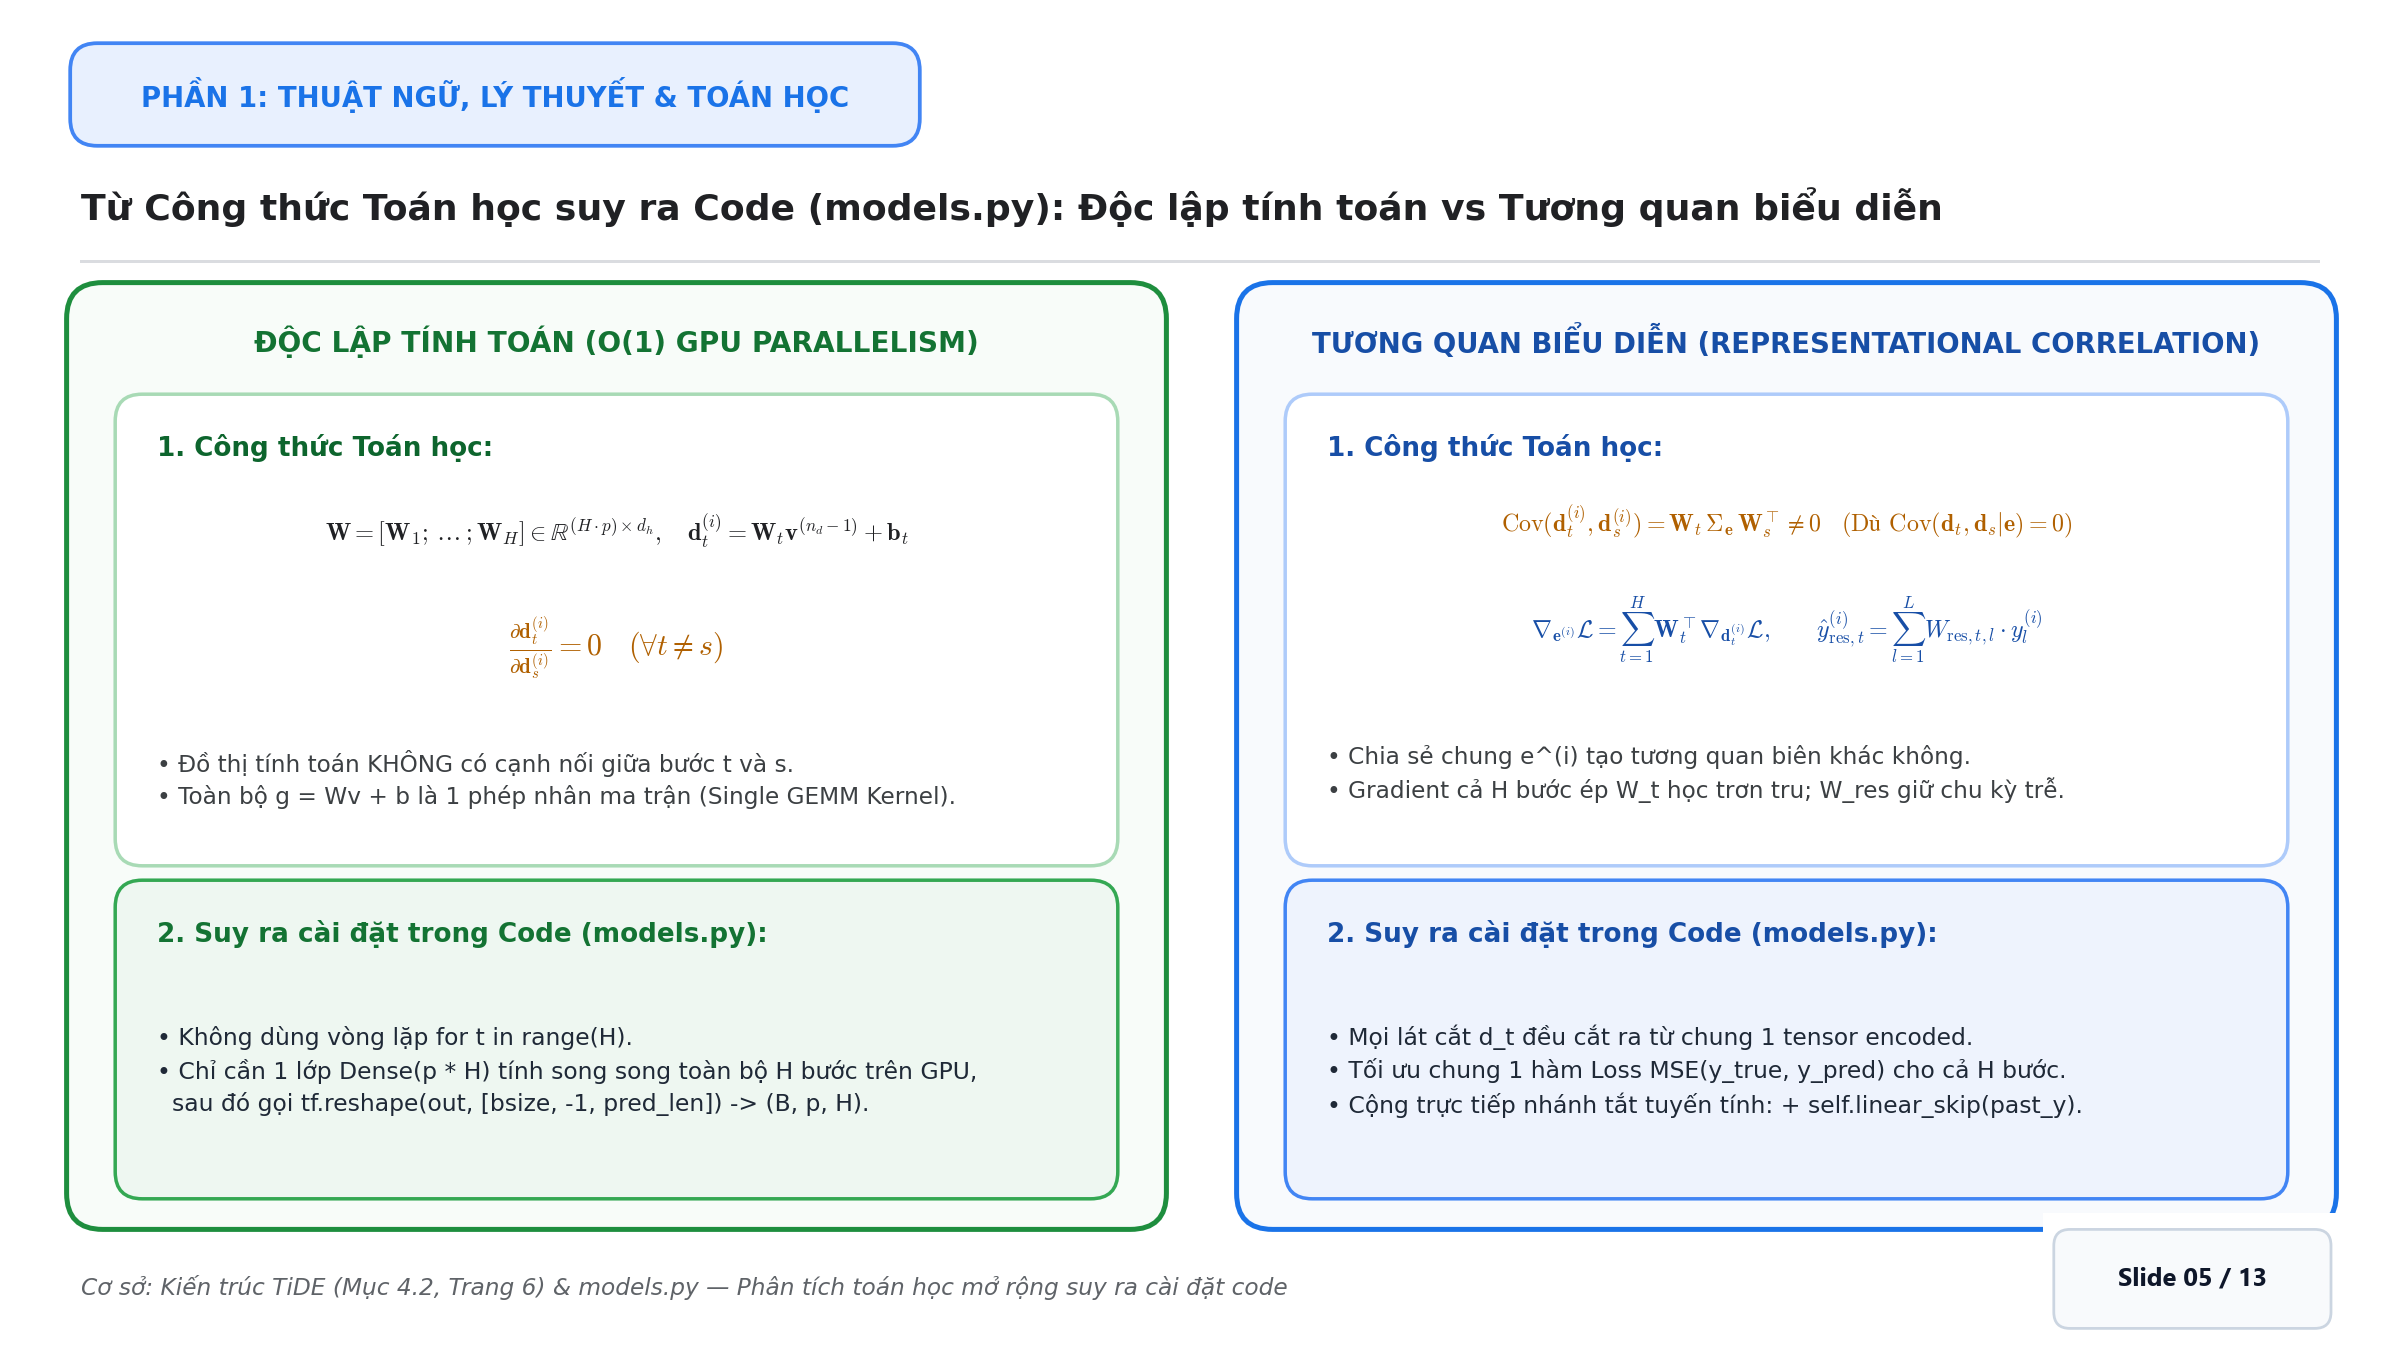
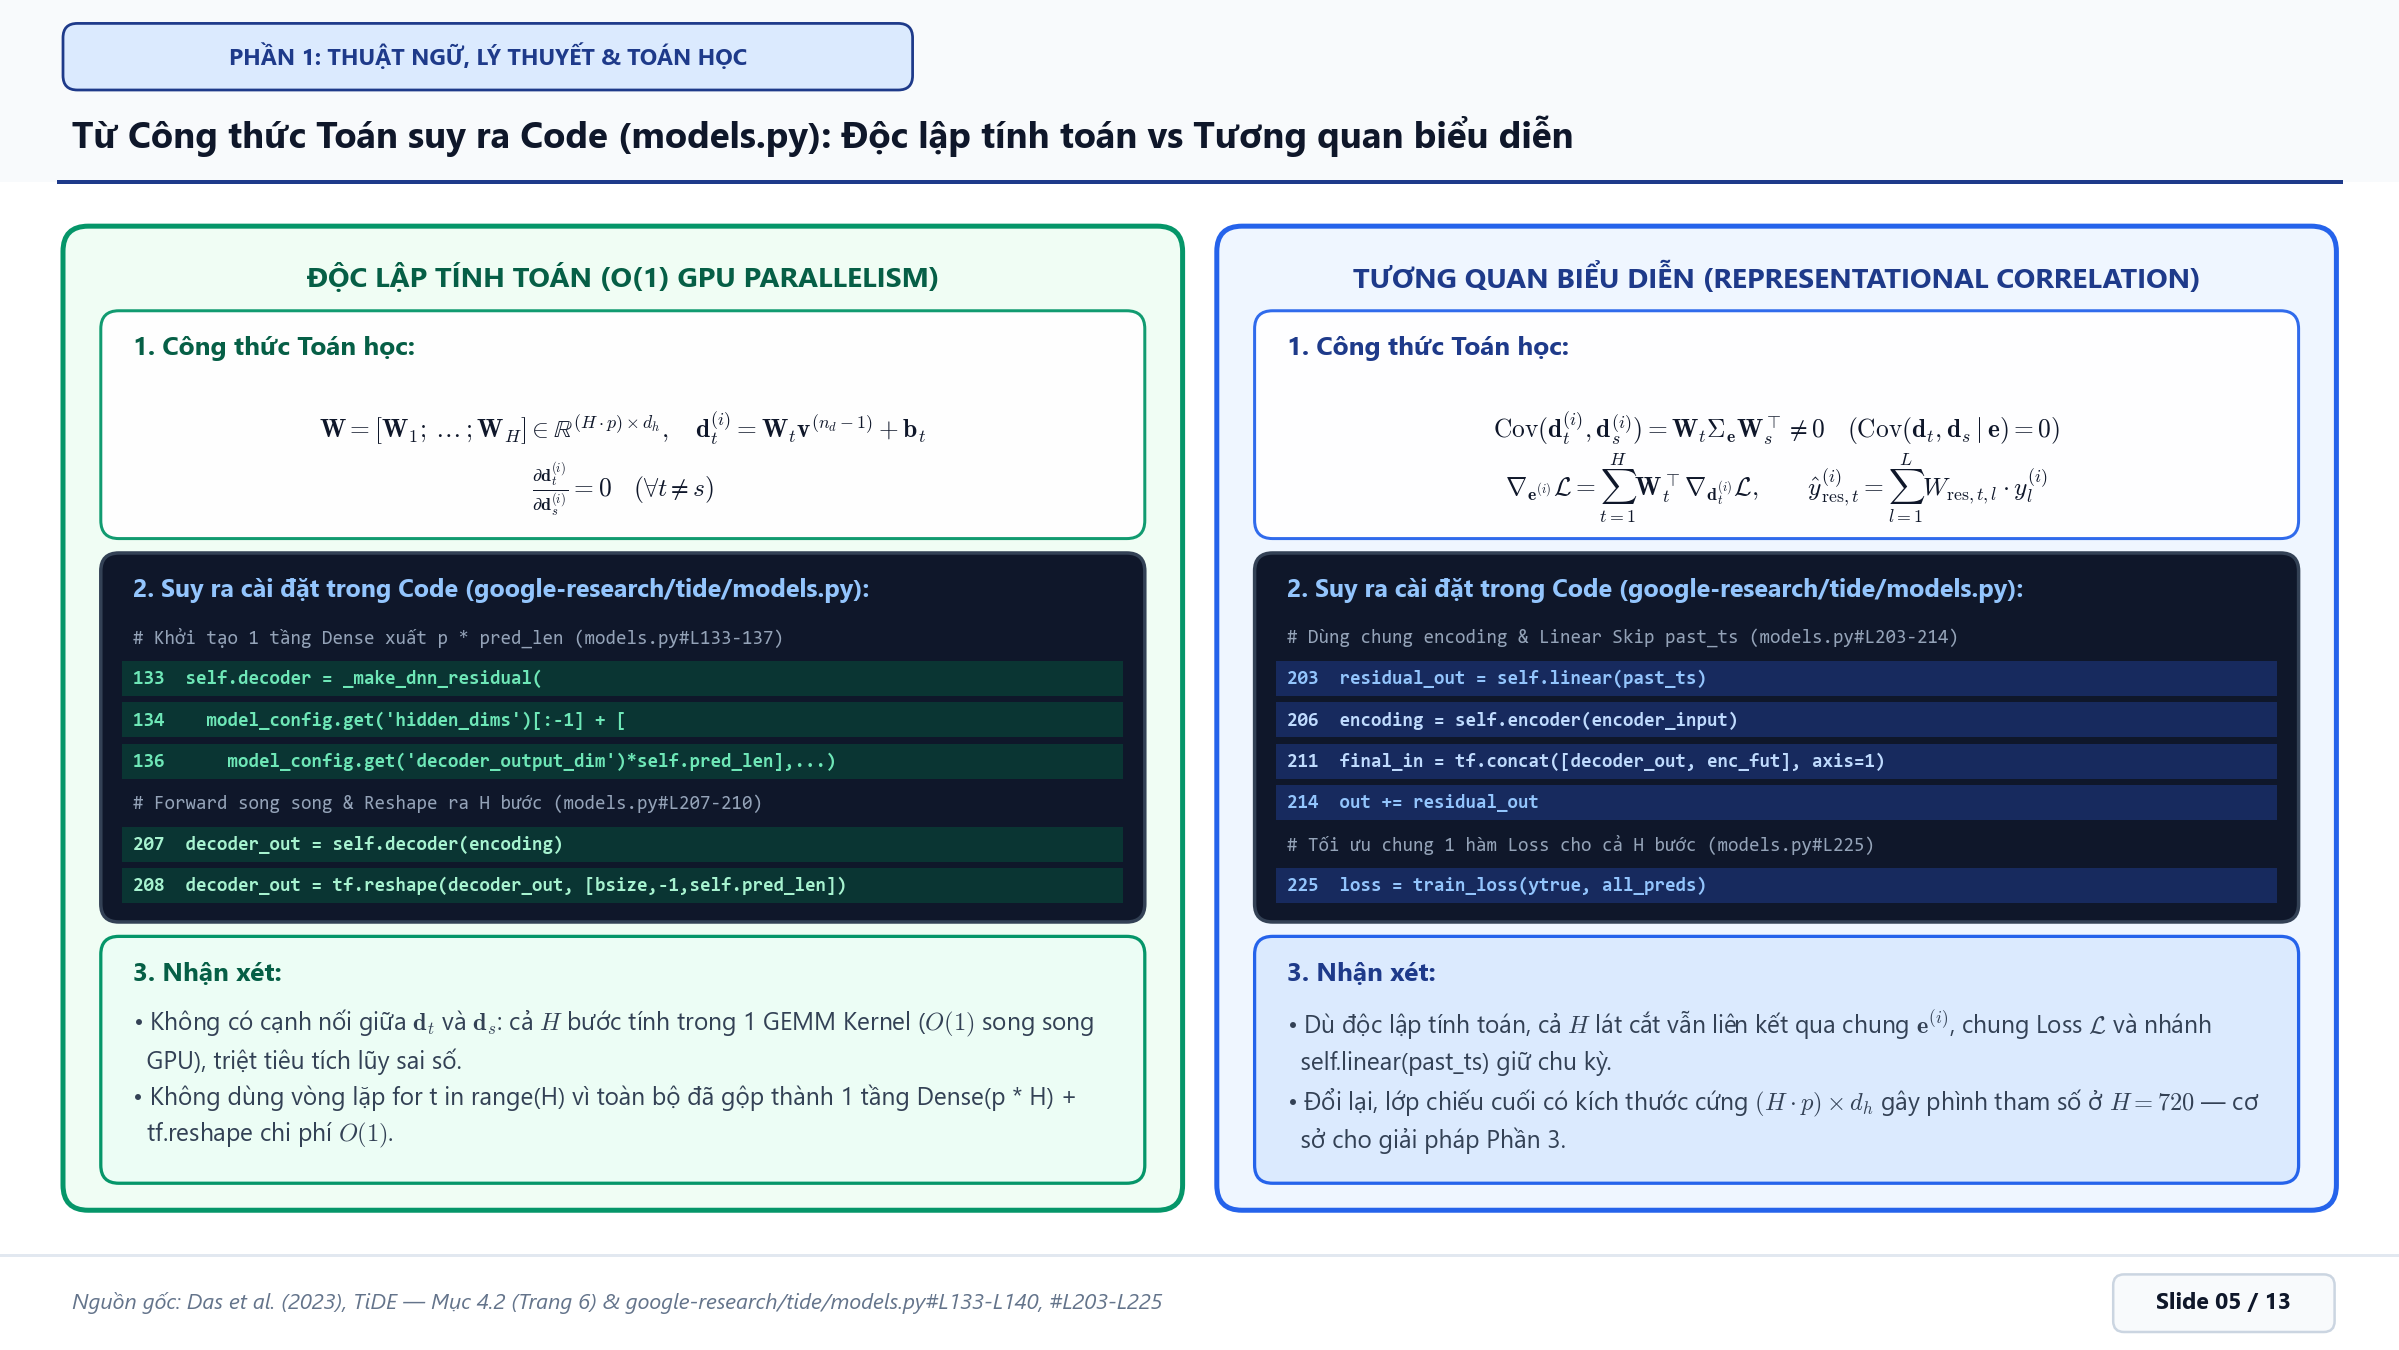
Refactor Slide 05 / 13: pure math formulas, verbatim models.py code, and section 3 insights

diff --git a/tasks-Hieu/presentation/slide/slide_01_phan_1_ly_thuyet_va_toan_hoc.md b/tasks-Hieu/presentation/slide/slide_01_phan_1_ly_thuyet_va_toan_hoc.md
@@ -53,31 +53,65 @@ $$
 
 ![Slide 05: Từ công thức toán học suy ra code](./images/slide_03b_ban_chat_toan_hoc.png)
 
-### Liên kết từ Công thức Toán học sang cài đặt `models.py`
+### Liên kết từ Công thức Toán học sang cài đặt nguyên văn trong `google-research/tide/models.py`
 
 #### A. Độc lập tính toán ($O(1)$ GPU Parallelism)
 
-* **1. Công thức Toán học:** Tách ma trận chiếu tầng cuối $\mathbf{W} \in \mathbb{R}^{(H\cdot p)\times d_h}$ thành $H$ khối con $\mathbf{W}_t \in \mathbb{R}^{p\times d_h}$ theo từng bước thời gian:
+* **1. Công thức Toán học:**
 
 $$
-\mathbf{d}_t^{(i)} = \mathbf{W}_t \mathbf{v}^{(n_d-1)} + \mathbf{b}_t \implies \frac{\partial \mathbf{d}_t^{(i)}}{\partial \mathbf{d}_s^{(i)}} = \mathbf{0} \quad (\forall t \neq s)
+\mathbf{W} = [\mathbf{W}_1; \dots; \mathbf{W}_H] \in \mathbb{R}^{(H\cdot p)\times d_h}, \quad \mathbf{d}_t^{(i)} = \mathbf{W}_t \mathbf{v}^{(n_d-1)} + \mathbf{b}_t
 $$
 
-Đồ thị tính toán không có cạnh nối giữa bước $t$ và $s$; toàn bộ $\mathbf{g} = \mathbf{W}\mathbf{v} + \mathbf{b}$ là 1 phép nhân ma trận duy nhất (Single GEMM Kernel).
+$$
+\frac{\partial \mathbf{d}_t^{(i)}}{\partial \mathbf{d}_s^{(i)}} = \mathbf{0} \quad (\forall t \neq s)
+$$
 
-* **2. Suy ra cài đặt trong Code (`models.py`):** Không dùng vòng lặp `for t in range(H)`. Tác giả chỉ cần đúng **1 lớp `Dense(p * H)`** tính song song toàn bộ $H$ bước trên GPU, rồi gọi `tf.reshape(out, [bsize, -1, pred_len])` để tạo tensor `(B, p, H)`.
+* **2. Suy ra cài đặt nguyên văn trong Code (`models.py#L133-L140, #L207-L210`):**
+
+```python
+# models.py#L133-L137: 1 tầng Dense xuất p * pred_len
+self.decoder = _make_dnn_residual(
+    model_config.get('hidden_dims')[:-1]
+    + [model_config.get('decoder_output_dim') * self.pred_len],
+    layer_norm=layer_norm, dropout_rate=dropout_rate,
+)
+# models.py#L207-L210: Forward song song & Reshape ra H bước
+decoder_out = self.decoder(encoding)
+decoder_out = tf.reshape(decoder_out, [bsize, -1, self.pred_len])
+```
+
+* **3. Nhận xét:**
+  * Không có cạnh nối giữa $\mathbf{d}_t$ và $\mathbf{d}_s$: toàn bộ $H$ bước được tính trong 1 GEMM Kernel ($O(1)$ song song GPU), triệt tiêu lỗi tích lũy sai số.
+  * Không dùng vòng lặp `for t in range(H)` vì toàn bộ đã gộp thành 1 tầng `Dense(p * H)` + `tf.reshape` chi phí $O(1)$.
 
 #### B. Tương quan biểu diễn (Representational Correlation)
 
 * **1. Công thức Toán học:**
 
 $$
-\mathrm{Cov}(\mathbf{d}_t^{(i)}, \mathbf{d}_s^{(i)}) = \mathbf{W}_t \, \mathbf{\Sigma}_{\mathbf{e}} \, \mathbf{W}_s^\top \neq \mathbf{0}, \qquad \nabla_{\mathbf{e}^{(i)}} \mathcal{L} = \sum_{t=1}^H \mathbf{W}_t^\top \nabla_{\mathbf{d}_t^{(i)}} \mathcal{L}, \qquad \hat{y}_{\mathrm{res}, t}^{(i)} = \sum_{l=1}^L W_{\mathrm{res}, t, l} \cdot y_l^{(i)}
+\mathrm{Cov}(\mathbf{d}_t^{(i)}, \mathbf{d}_s^{(i)}) = \mathbf{W}_t \, \mathbf{\Sigma}_{\mathbf{e}} \, \mathbf{W}_s^\top \neq \mathbf{0} \quad \left(\mathrm{Cov}(\mathbf{d}_t, \mathbf{d}_s \mid \mathbf{e}) = 0\right)
 $$
 
-Việc chia sẻ chung vector ẩn $\mathbf{e}^{(i)}$ tạo ra hiệp phương sai biên khác không; Gradient tổng hợp từ cả $H$ bước ép $\mathbf{W}_t$ học tính trơn tru; và $\mathbf{W}_{\mathrm{res}}$ giữ trực tiếp chu kỳ trễ.
+$$
+\nabla_{\mathbf{e}^{(i)}} \mathcal{L} = \sum_{t=1}^H \mathbf{W}_t^\top \nabla_{\mathbf{d}_t^{(i)}} \mathcal{L}, \qquad \hat{y}_{\mathrm{res}, t}^{(i)} = \sum_{l=1}^L W_{\mathrm{res}, t, l} \cdot y_l^{(i)}
+$$
 
-* **2. Suy ra cài đặt trong Code (`models.py`):** Mọi lát cắt $\mathbf{d}_t$ đều cắt ra từ chung 1 tensor `encoded`; tối ưu chung 1 hàm Loss `MSE(y_true, y_pred)` cho cả $H$ bước; và cộng trực tiếp nhánh tắt tuyến tính `+ self.linear_skip(past_y)`.
+* **2. Suy ra cài đặt nguyên văn trong Code (`models.py#L203-L214, #L225`):**
+
+```python
+# models.py#L203-L214: Dùng chung encoding & Linear Skip past_ts
+residual_out = self.linear(past_ts)
+encoding = self.encoder(encoder_input)
+final_in = tf.concat([decoder_out, enc_fut], axis=1)
+out += residual_out
+# models.py#L225: Tối ưu chung 1 hàm Loss cho cả H bước
+loss = train_loss(ytrue, all_preds)
+```
+
+* **3. Nhận xét:**
+  * Dù độc lập tính toán, cả $H$ lát cắt vẫn liên kết chặt chẽ qua chung $\mathbf{e}^{(i)}$, chung hàm Loss $\mathcal{L}$ và nhánh `self.linear(past_ts)` giữ chu kỳ.
+  * Đổi lại, lớp chiếu cuối có kích thước cứng $(H \cdot p) \times d_h$ gây phình tham số ở $H=720$ — cơ sở trực tiếp cho giải pháp Low-Rank ở Phần 3.
 
 ---
 

diff --git a/tasks-Hieu/presentation/slide/script_thuyet_trinh_tung_slide.md b/tasks-Hieu/presentation/slide/script_thuyet_trinh_tung_slide.md
@@ -130,15 +130,17 @@ Nghe tới đây, chắc hẳn bạn mới sẽ thắc mắc: *"Ủa, nếu các
 
 #### 🎙 Lời thoại trình bày (Team Tech-talk):
 
-Để trả lời câu hỏi vừa rồi một cách thuyết phục nhất, chúng ta đi theo đúng một mạch logic: **từ bản chất toán học suy thẳng ra cách tác giả viết code trong `models.py`**.
+Để trả lời câu hỏi vừa rồi một cách thuyết phục nhất, chúng ta đi theo đúng 3 phần trên từng cột của **Slide 05**: **từ (1) Công thức Toán học $\rightarrow$ (2) Đoạn code nguyên văn trong `models.py` $\rightarrow$ (3) Nhận xét trực tiếp**.
 
-Trước hết, tại sao nó lại **Độc lập tính toán ($O(1)$ trên GPU)**?
-Về mặt toán học, khi tách ma trận chiếu tầng cuối thành từng khối cho mỗi ngày $t$, đạo hàm giữa ngày $t$ và ngày $s$ khác bằng $0$. Nói nôm na là trên sơ đồ tính toán **không có sợi dây nào nối ngang giữa ngày này với ngày kia** — toàn bộ chỉ là một phép nhân ma trận lớn. Từ đó suy ra trong code `models.py`, tác giả **không cần viết vòng lặp `for t in range(H)`**. Chỉ cần đúng **1 lớp `Dense(p * H)`** duy nhất để GPU tính song song cả $H$ ngày trong một nhịp, sau đó gọi `tf.reshape` là ra tensor `(B, p, H)`.
+Ở cột trái — **Độc lập tính toán ($O(1)$ trên GPU)**:
+* Mục **1 (Công thức Toán)** chỉ rõ đạo hàm riêng $\partial \mathbf{d}_t / \partial \mathbf{d}_s = \mathbf{0}$ giữa hai bước khác nhau.
+* Bê sang mục **2 (Code nguyên văn `models.py#L133-L137` và `#L207-L208`)**: tác giả chỉ cần định nghĩa đúng một tầng `self.decoder = _make_dnn_residual(... decoder_output_dim * self.pred_len)` rồi gọi `decoder_out = self.decoder(encoding)` và `tf.reshape(decoder_out, [bsize, -1, self.pred_len])`.
+* Từ đó rút ra mục **3 (Nhận xét)**: toàn bộ $H$ bước tính gói gọn trong một phép nhân ma trận GPU ($O(1)$), tuyệt đối không có vòng lặp tuần tự `for t in range(H)` nên vừa nhanh vừa triệt tiêu tích lũy sai số.
 
-Nhưng nếu tính độc lập như vậy, tại sao các ngày vẫn **Tương quan chặt chẽ với nhau**?
-Toán học chỉ ra 3 lý do rất rõ ràng: Thứ nhất, tuy tính song song nhưng mọi ngày đều "sinh ra từ một gốc mẹ" là vector tóm tắt quá khứ $\mathbf{e}$, nên về tổng thể chúng vẫn có hiệp phương sai tương quan với nhau. Thứ hai, lúc huấn luyện, gradient sai số của tất cả $H$ ngày cùng dội ngược về cập nhật chung cho vector $\mathbf{e}$, ép các trọng số phải học phối hợp nhịp nhàng và mượt mà theo thời gian. Thứ ba là có thêm nhánh đường tắt `Global Residual` nối thẳng quá khứ sang tương lai.
-
-Ba điều đó ánh xạ trực tiếp thành 3 dòng cài đặt rất gọn trong `models.py`: cả $H$ cột $\mathbf{d}_t$ đều cắt ra từ **chung một tensor `encoded`**; toàn bộ mô hình tối ưu **chung một hàm Loss `MSE`** chấm điểm đồng thời cả $H$ ngày; và cuối cùng code cộng trực tiếp nhánh tắt tuyến tính `+ self.linear_skip(past_y)`.
+Sang cột phải — **Tương quan biểu diễn**:
+* Mục **1 (Công thức Toán)** cho thấy hiệp phương sai biên giữa $\mathbf{d}_t$ và $\mathbf{d}_s$ khác $0$, gradient của cả $H$ bước cùng dội về $\mathbf{e}^{(i)}$, kèm nhánh tuyến tính $\hat{y}_{\mathrm{res},t}$.
+* Chiếu thẳng vào mục **2 (Code nguyên văn `models.py#L203-L214` và `#L225`)**: mọi nhánh đều đọc chung `encoding = self.encoder(encoder_input)`, cộng thêm `residual_out = self.linear(past_ts)` qua dòng `out += residual_out`, và tối ưu chung một hàm `loss = train_loss(ytrue, all_preds)` cho cả $H$ bước.
+* Kết luận ở mục **3 (Nhận xét)**: các bước vẫn giữ đồng bộ chu kỳ & xu hướng toàn cục nhờ chung gốc `encoding` và `loss`, nhưng cái giá phải trả là ma trận chiếu tầng cuối có kích thước cứng $(H \cdot p) \times d_h$ gây phình tham số ở $H=720$ — đây chính là cầu nối sang đề xuất Phần 3!
 
 ---
 
